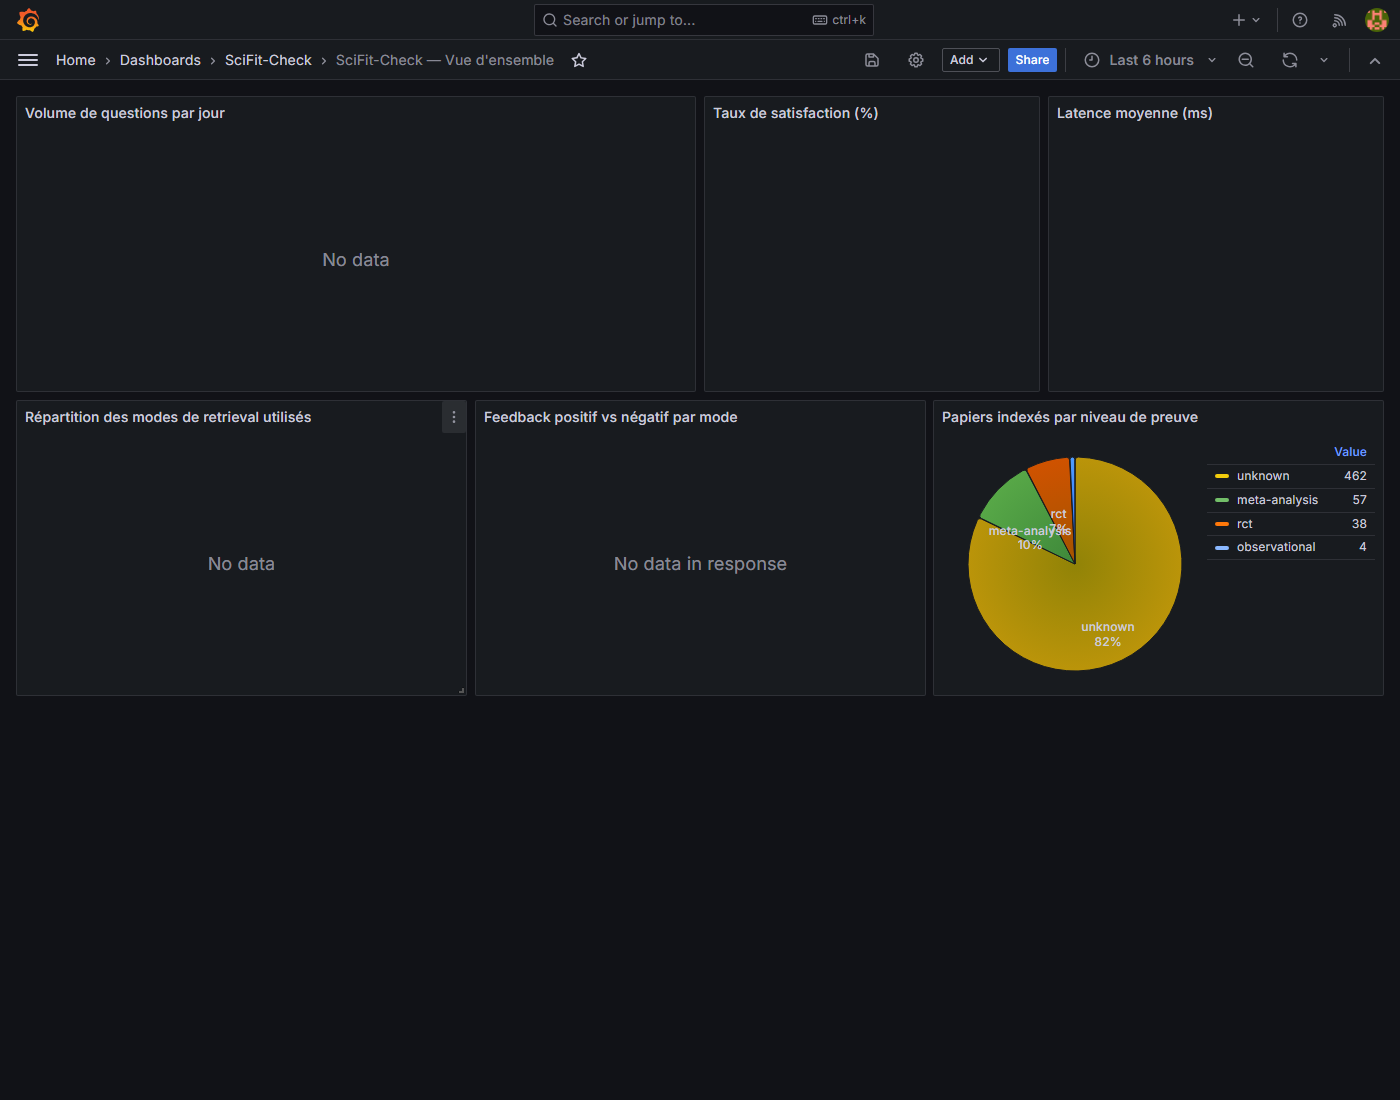
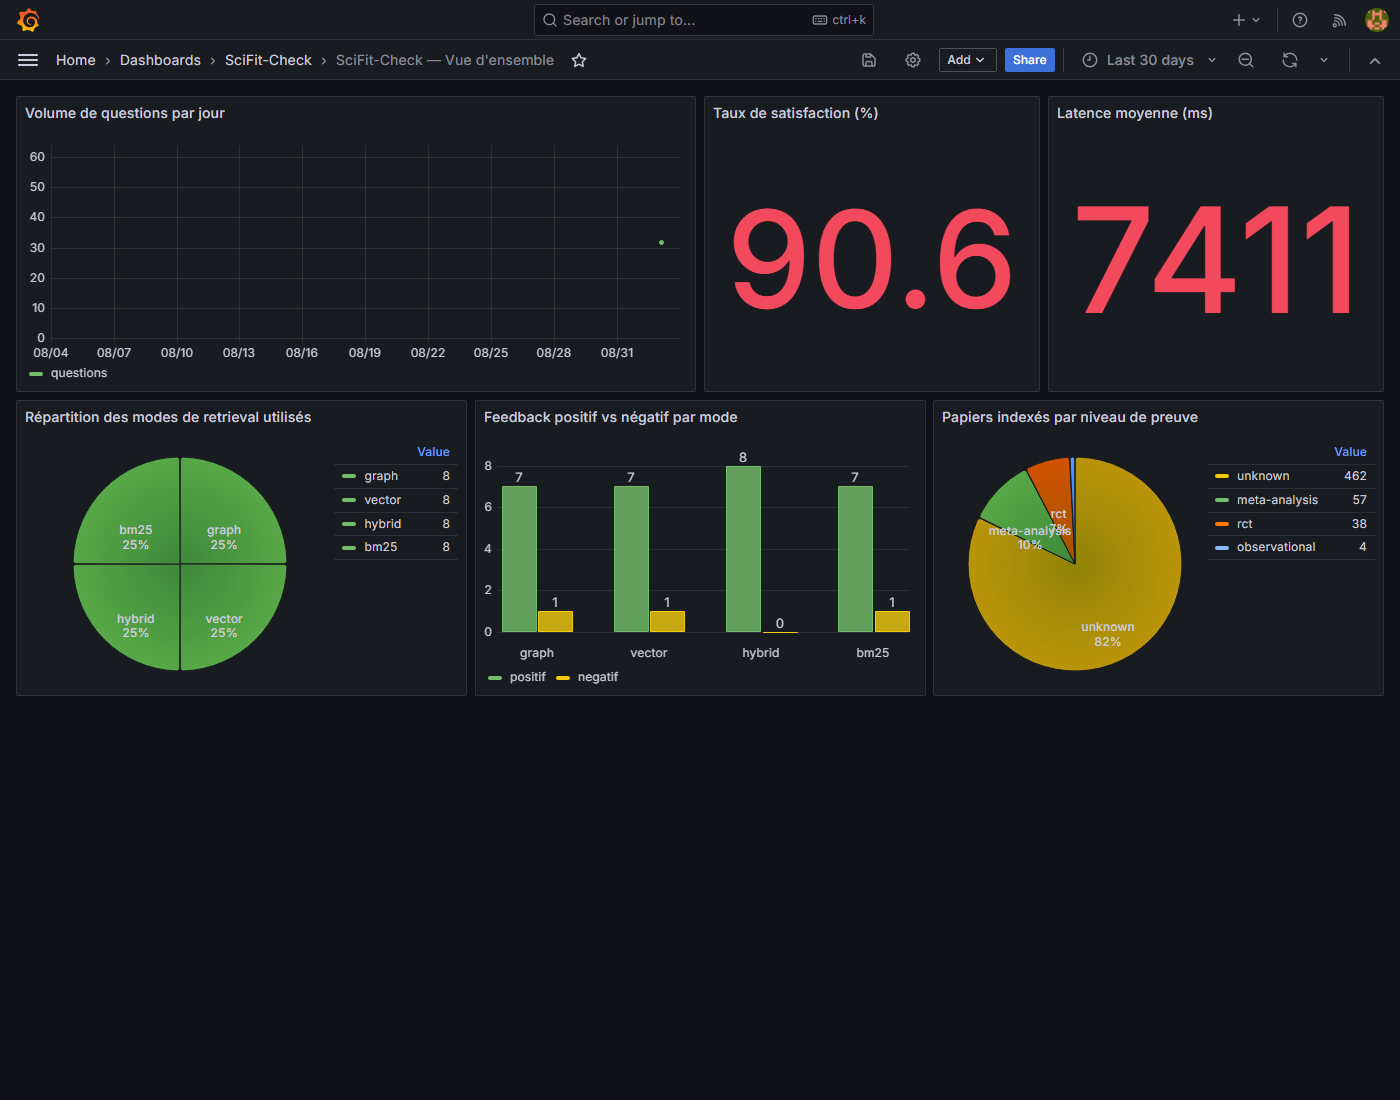
Fix Grafana default time-range bug; add full-answer screenshot
- Real bug found by actually opening the populated dashboard: all 5
  feedback-based panels showed 'No data' despite the table having 32
  real rows, because the default 'Last 6 hours' range excluded the
  day-truncated timestamp bucket. Fixed by setting the dashboard's
  default range to now-30d -> now in scifit_overview.json.
- docs/monitoring.md: documents both dashboard bugs found by testing
  (the earlier piechart reduceOptions one + this time-range one), and
  reports real current stats (90.6% satisfaction, ~7.4s avg latency,
  even 8/8/8/8 split across retrieval modes) instead of 'currently
  empty'.
- New screenshot: a full generated answer (structured table + evidence
  level + expanded sources) for the README walkthrough, replacing the
  question-only screenshot as the main 'how it works' visual.

diff --git a/docs/monitoring.md b/docs/monitoring.md
@@ -50,31 +50,53 @@ OpenAlex-sourced papers, or only use OpenAlex as a targeted complement.
 
 ### The other 5 panels (based on `feedback`)
 
-As of writing, the `feedback` table is empty (0 interactions) and these
-panels show "No data" — not a bug, just no real usage yet. Two ways to
-populate them:
+Populated by running the demo seed script
+([`src/eval/seed_feedback_demo.py`](../src/eval/seed_feedback_demo.py)):
+runs the real pipeline (retrieval + Groq generation) over the 8 annotated
+questions × 4 modes, and logs each interaction into `feedback` exactly
+like the app would. The rating isn't a randomly simulated human opinion:
+it's derived from an automatic check of the expected answer format
+(source citation + "evidence level" line present, per the prompt in
+`src/llm/answer.py`) — or, correctly, a positive rating when the model
+explicitly declines to answer for lack of relevant sources, since that's
+the behavior the prompt asks for, not a formatting failure.
 
-1. **Normal usage**: open the app, ask questions, click 👍/👎.
-2. **Demo seed script** ([`src/eval/seed_feedback_demo.py`](../src/eval/seed_feedback_demo.py)):
-   runs the real pipeline (retrieval + Groq generation) over the 8
-   annotated questions × 4 modes, and logs each interaction into
-   `feedback` exactly like the app would. The rating isn't a randomly
-   simulated human opinion: it's derived from an automatic check of the
-   expected answer format (source citation + "evidence level" line
-   present, per the prompt in `src/llm/answer.py`).
-   ```bash
-   docker compose exec app python src/eval/seed_feedback_demo.py
-   ```
-   ⚠ Uses ~32 Groq calls — see
-   [Groq quota](setup.md#groq-free-tier-quota) if the account is already
-   close to its daily limit when running this.
+```bash
+docker compose exec app python src/eval/seed_feedback_demo.py
+```
 
-A configuration bug was fixed on both `piechart` panels while preparing
-this documentation: without an explicit `reduceOptions.values: true`,
-Grafana (v11) collapses every row of a table query into a single
-aggregated value named "total" instead of drawing one slice per category —
-caught by actually testing the dashboard with real data rather than
-committing the config untested.
+⚠ Uses ~32 Groq calls, paced 8s apart to stay under Groq's 8,000
+tokens/minute limit — see [Groq quota](setup.md#groq-free-tier-quota).
+
+The alternative is normal usage: open the app, ask questions, click 👍/👎.
+
+Current state (32 seeded interactions): **90.6% satisfaction**, ~7.4s
+average latency, evenly split across the 4 retrieval modes (8 each, since
+the seed script deliberately cycles through all of them) — visible on the
+dashboard above.
+
+### Two real bugs found by actually testing this dashboard, not just committing config
+
+1. **Both `piechart` panels showed one merged slice instead of real
+   categories.** Without an explicit `reduceOptions.values: true`, Grafana
+   (v11) collapses every row of a table query into a single aggregated
+   value named "total". Fixed in the panel `options`.
+2. **All 5 `feedback`-based panels showed "No data" despite the table
+   having real rows.** The dashboard's default time range was "Last 6
+   hours", but `date_trunc('day', created_at)` (used by the "Volume de
+   questions par jour" panel) buckets every row inserted today down to
+   *today at 00:00* — which was already outside a 6-hour window by the
+   time the data was queried. Grafana's panel then clips data points
+   outside the selected range client-side, even though the underlying SQL
+   query itself ignores the time picker and already returned the row.
+   Fixed by setting the dashboard's default range to `now-30d` → `now`
+   (`monitoring/provisioning/dashboards/scifit_overview.json`, top-level
+   `"time"` key) — comfortably wide for a project with this little
+   traffic, without needing a custom time picker each time someone opens
+   it.
+
+Neither bug was visible from reading the JSON — both only showed up once
+real data existed and the dashboard was actually opened in a browser.
 
 ## What's missing to go further
 

diff --git a/README.md b/README.md
@@ -174,7 +174,9 @@ with it.
    to cite `[source: n]` for every claim and end with a line
    `Niveau de preuve global: <low|medium|high>` (evidence level).
 4. The answer is shown with an expander listing the sources used, and two
-   buttons 👍/👎 to leave feedback (see [Monitoring](#monitoring)).
+   buttons 👍/👎 to leave feedback (see [Monitoring](#monitoring)):
+
+   ![Full answer with sources](docs/images/02b_reponse_complete.png)
 
 The UI itself is in French (`streamlit_app/app.py`) — the target users
 are French-speaking, this README/docs are in English for reviewers. The
